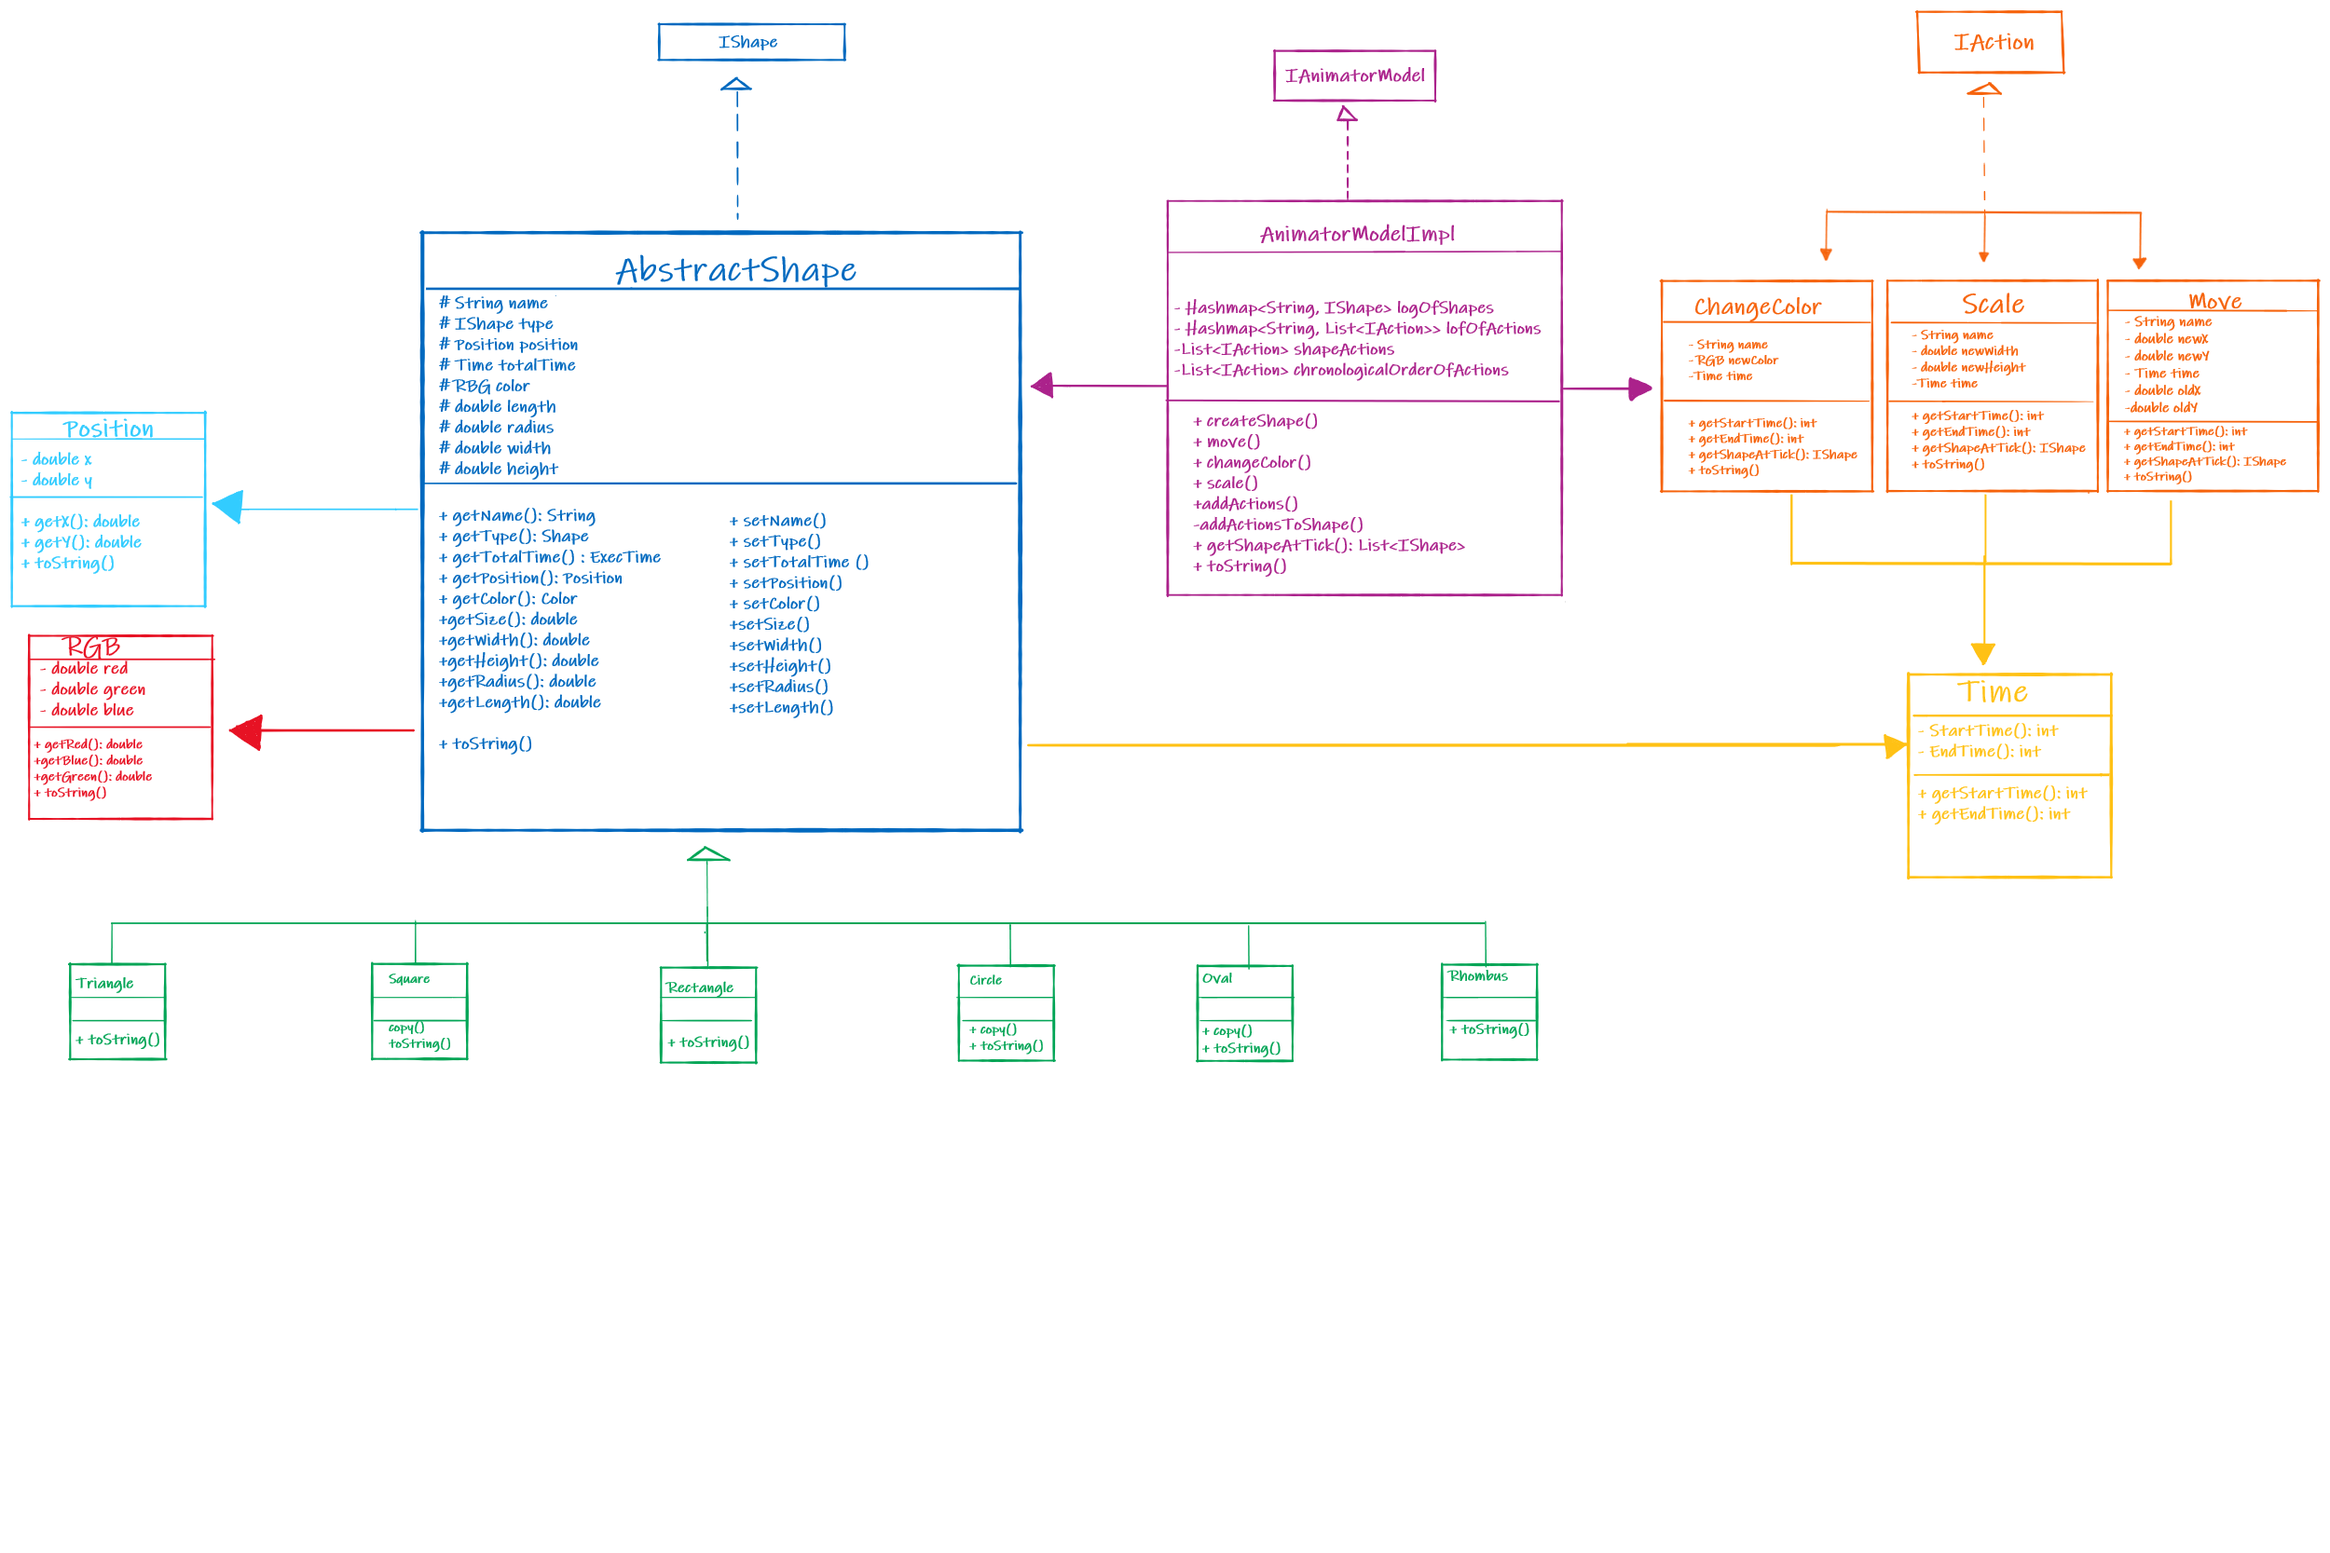
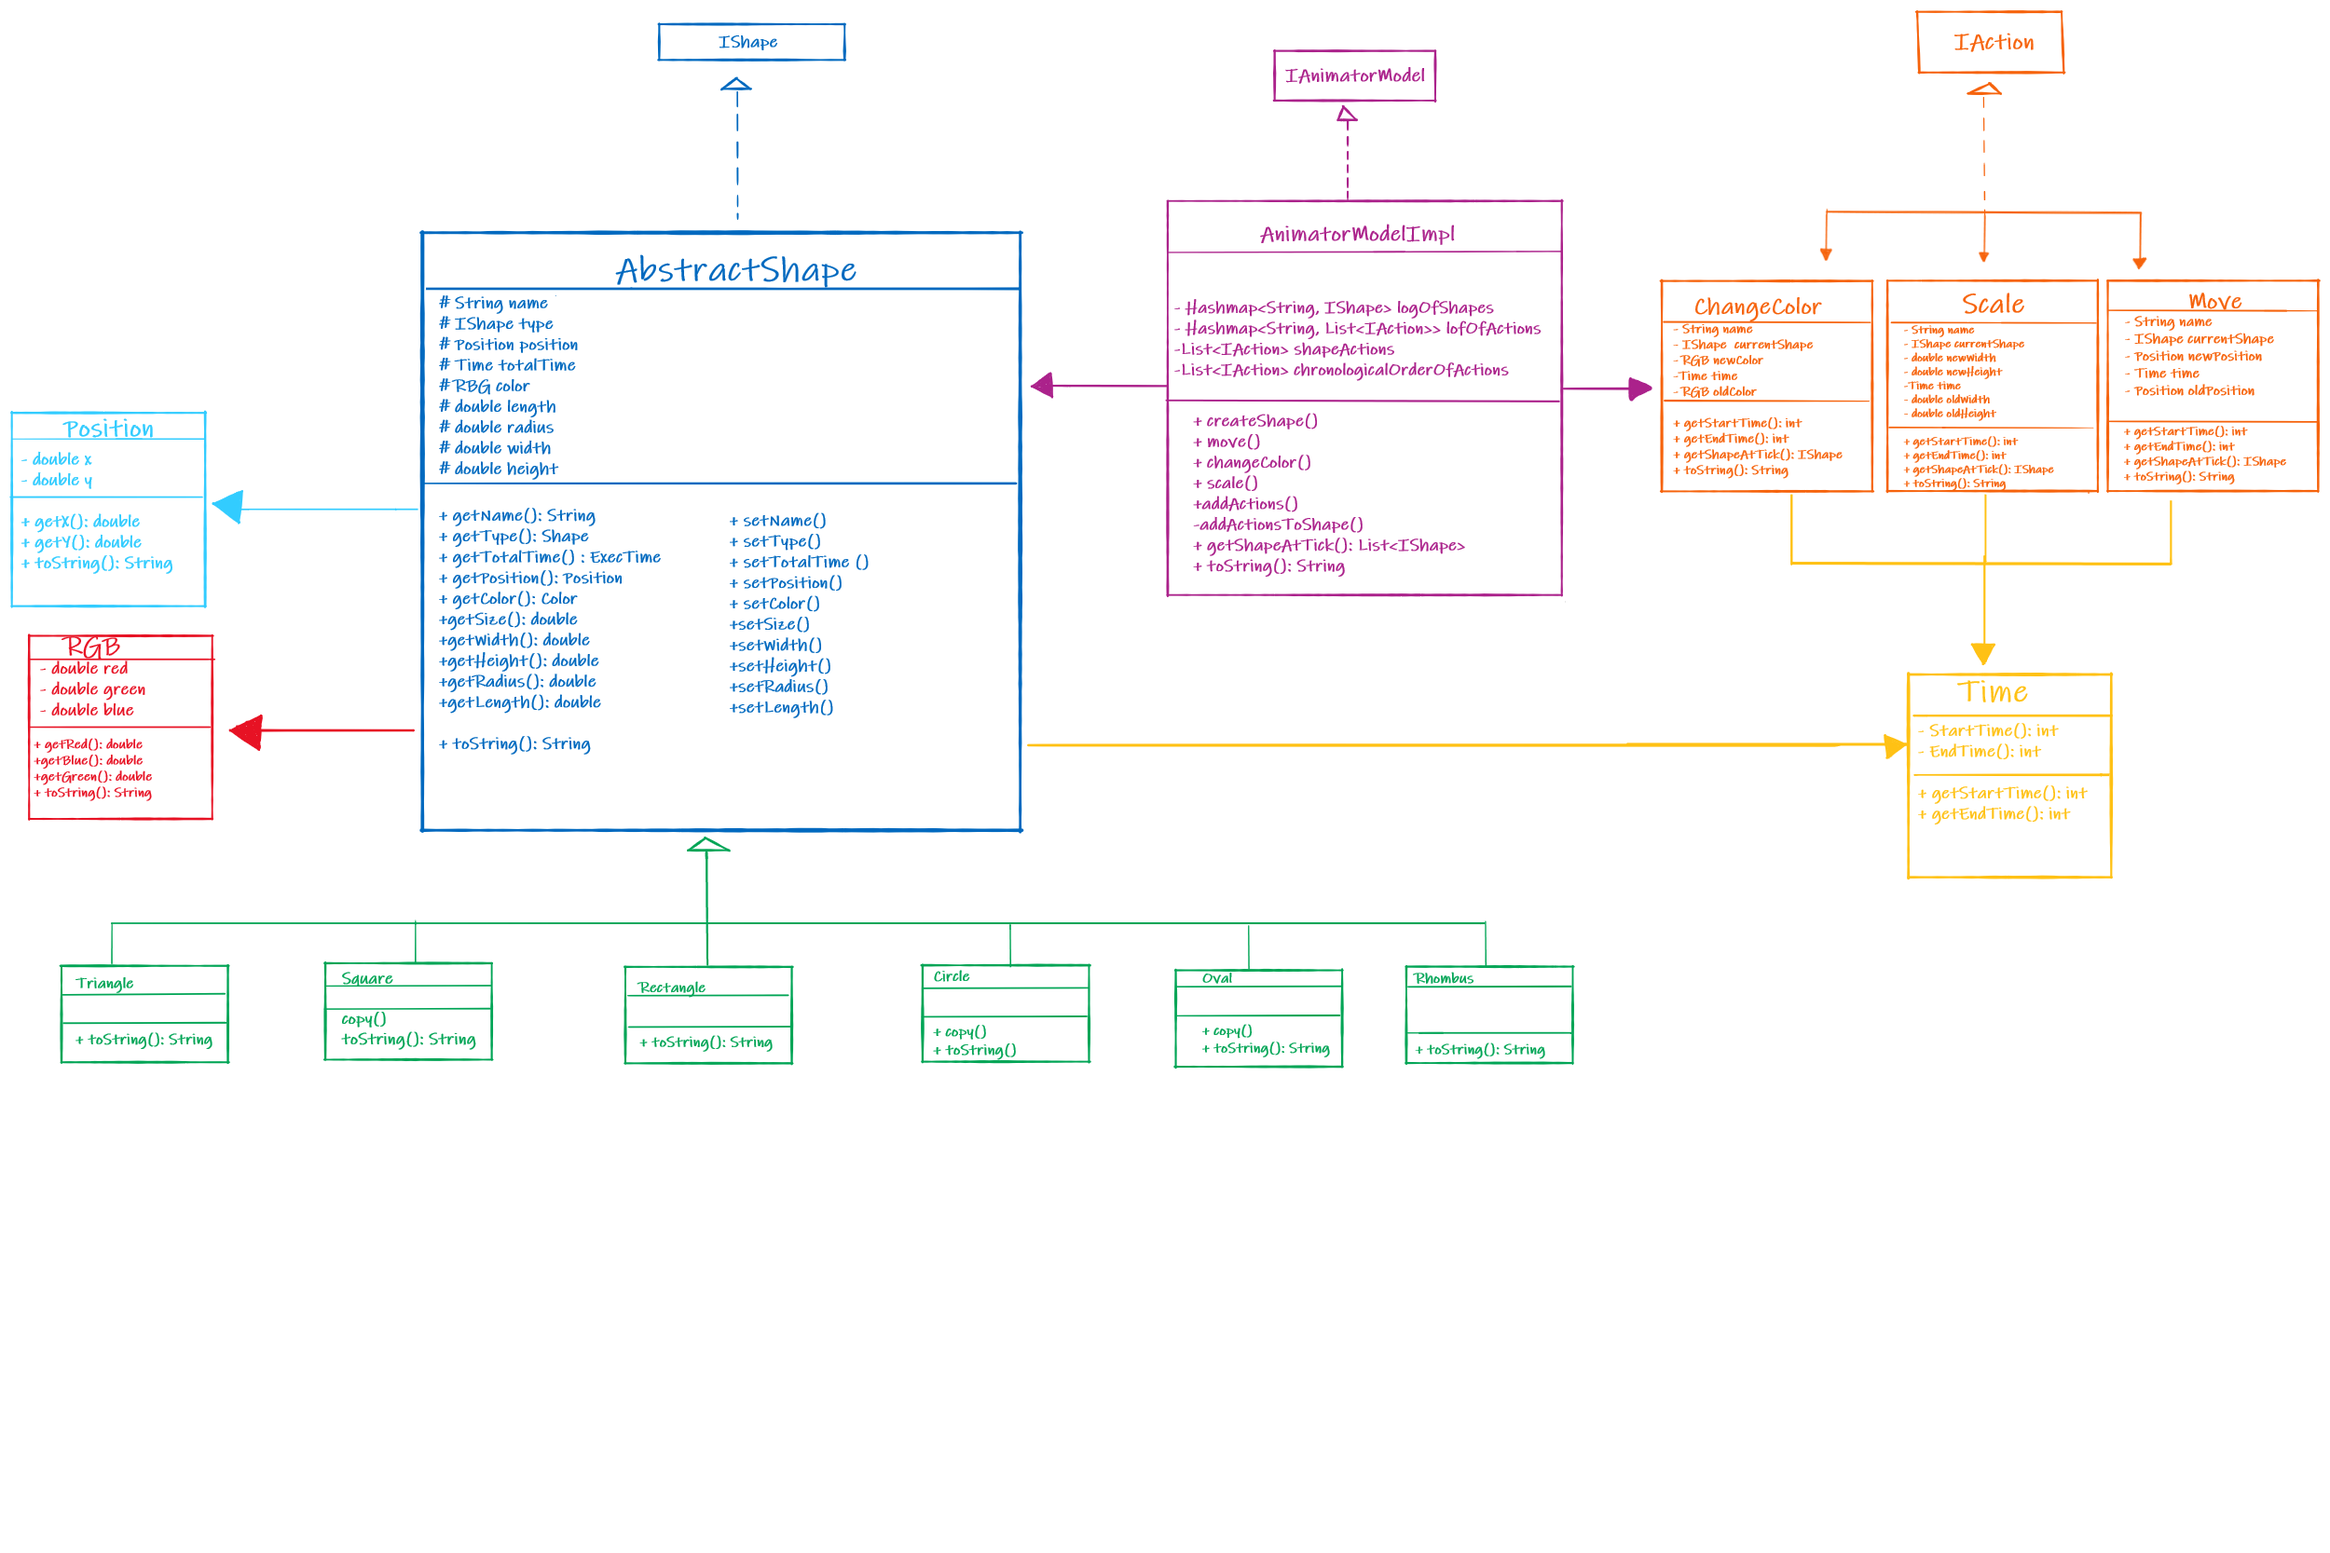
Houston , we have no problems

diff --git a/src/cs5004/animator/AnimatorModelImpl.java b/src/cs5004/animator/AnimatorModelImpl.java
@@ -18,14 +18,12 @@ import cs5004.shape.Triangle;
 public class AnimatorModelImpl implements IAnimatorModel {
   private HashMap<String, IShape> logOfShapes;
   private HashMap<String, List<IAction>> logOfActions;
-  private List<IAction> shapeActions;
   // chronological order of actions for toString method
-  private List<IAction> chronologicalOrderOfActions;
+  private List<String> chronologicalOrderOfActions;
 
   public AnimatorModelImpl() {
     this.logOfShapes = new HashMap<>();
     this.logOfActions = new HashMap<>();
-    this.shapeActions = new LinkedList<>();
     this.chronologicalOrderOfActions = new LinkedList<>();
   }
 
@@ -49,37 +47,38 @@ public class AnimatorModelImpl implements IAnimatorModel {
 
   @Override
   public void move(String name, double newX, double newY, int startTime, int endTime) {
-    IShape currentShape = logOfShapes.get(name);
+    IShape currentShape = getCurrentShape(name);
     if (currentShape == null) {
       throw new IllegalStateException("Shape with this name does not exist");
     }
     IAction newMove = new Move(name, currentShape, newX, newY, startTime, endTime);
     addActionToShape(name, newMove);
-    chronologicalOrderOfActions.add(newMove);
+    chronologicalOrderOfActions.add(newMove.toString());
   }
 
   @Override
   public void changeColor(String name, RGB newColor, int startTime, int endTime) {
-    IShape currentShape = logOfShapes.get(name);
+    IShape currentShape = getCurrentShape(name);
     if (currentShape == null) {
       throw new IllegalStateException("Shape with this name does not exist");
     }
     IAction newChangeColor = new ChangeColor(name, currentShape, newColor, startTime, endTime);
     addActionToShape(name, newChangeColor);
-    chronologicalOrderOfActions.add(newChangeColor);
+    chronologicalOrderOfActions.add(newChangeColor.toString());
   }
 
   @Override
   public void scale(String name, double newWidth, double newHeight, int startTime, int endTime) {
-    IShape currentShape = logOfShapes.get(name);
+    IShape currentShape = getCurrentShape(name);
     if (currentShape == null) {
       throw new IllegalStateException("Shape with this name does not exist");
     }
     IAction newScale = new Scale(name, currentShape, newWidth, newHeight, startTime, endTime);
     addActionToShape(name, newScale);
-    chronologicalOrderOfActions.add(newScale);
+    chronologicalOrderOfActions.add(newScale.toString());
   }
 
+  // NEEDS TO MODIFY
   // adds any action
   public void addActions(String name, IAction actions) {
     if (name == null) {
@@ -92,30 +91,47 @@ public class AnimatorModelImpl implements IAnimatorModel {
       throw new IllegalArgumentException("Actions cannot be null");
     }
     addActionToShape(name, actions);
-    chronologicalOrderOfActions.add(actions);
+    chronologicalOrderOfActions.add(actions.toString());
   }
 
   // create, move, change Color, scale
   private void addActionToShape(String name, IAction action) {
-    shapeActions.add(action);
-    logOfActions.put(name, shapeActions);
+    if (logOfActions.get(name) == null) {
+      logOfActions.put(name, new LinkedList<>());
+    }
+    logOfActions.get(name).add(action);
   }
 
   @Override
   public List<IShape> getShapesAtTicks(int tick) {
     List<IShape> frameOfShapes = new LinkedList<>();
-
     for (Map.Entry<String, IShape> objects : logOfShapes.entrySet()) {
       IShape accumulatorShape = objects.getValue().copy();
 
-      for (IAction actions : logOfActions.get(objects.getKey())) {
-        accumulatorShape = actions.getShapeAtTick(tick, accumulatorShape);
+      if (logOfActions.size() > 0 && logOfActions.get(objects.getKey()) != null) {
+        for (IAction actions : logOfActions.get(objects.getKey())) {
+          accumulatorShape = actions.getShapeAtTick(tick, accumulatorShape);
+        }
       }
-
       frameOfShapes.add(accumulatorShape);
     }
-
     return frameOfShapes;
+  }
+
+  private IShape getCurrentShape(String name) {
+    for (Map.Entry<String, IShape> objects : logOfShapes.entrySet()) {
+      if (objects.getKey().equals(name)) {
+        IShape accumulatorShape = objects.getValue().copy();
+
+        if (logOfActions.size() > 0 && logOfActions.get(objects.getKey()) != null) {
+          for (IAction actions : logOfActions.get(objects.getKey())) {
+            accumulatorShape = actions.getCurrentShape();
+          }
+        }
+        return accumulatorShape;
+      }
+    }
+    return null;
   }
 
   @Override
@@ -125,12 +141,12 @@ public class AnimatorModelImpl implements IAnimatorModel {
 
     StringBuilder accString = new StringBuilder();
     accString.append("Shapes:\n");
-    for (Map.Entry shape: logOfShapes.entrySet()) {
+    for (Map.Entry shape : logOfShapes.entrySet()) {
       accString.append(shape.getValue().toString());
       accString.append("\n\n");
     }
-    for (IAction action : chronologicalOrderOfActions) {
-      accString.append("Shape " + action.toString());
+    for (String action : chronologicalOrderOfActions) {
+      accString.append("Shape " + action);
       accString.append("\n");
     }
     return accString.toString();

diff --git a/test/IShapeTest.java b/test/IShapeTest.java
@@ -363,7 +363,7 @@ public class IShapeTest {
     assertEquals("""
         Name: C
         Type: Oval
-        Min corner: (500.0,100.0), X radius: 60.0, Y radius: 30.0, Color: (0.0,0.0,1.0)
+        Center: (500.0,100.0), X radius: 60.0, Y radius: 30.0, Color: (0.0,0.0,1.0)
         Appears at t=6
         Disappears at t=100""", oval.toString());
   }
@@ -376,11 +376,15 @@ public class IShapeTest {
     Model1.createShape("C", Shape.OVAL, new RGB(0,0,1), 60,
         30, 500, 100, 6, 100);
     Model1.move("R", 300, 300, 10, 50);
+    System.out.printf("Testing getShapesAtTicks");
+    System.out.println(Model1.getShapesAtTicks(11));
     Model1.move("C", 500, 400, 20, 70);
     Model1.changeColor("C", new RGB(0,1,0),50, 80);
     Model1.scale("R", 25, 100, 51, 70);
     Model1.move("R",200,200,70,100);
+    Model1.move("C",0,0,70,100);
 
+    System.out.println("Testing toString");
     System.out.println(Model1.toString());
 
     //String name, RGB newColor, int startTime, int endTime)

diff --git a/src/cs5004/animator/Move.java b/src/cs5004/animator/Move.java
@@ -29,6 +29,11 @@ public class Move implements IAction {
     this.time = new Time(startTime, endTime);
     this.oldPosition = new Position(currentShape.getPosition().getX(),
             currentShape.getPosition().getY());
+    this.currentShape.setPosition(newPosition.getX(), newPosition.getY());
+  }
+
+  public IShape getCurrentShape() {
+    return currentShape;
   }
 
   public IShape getShapeAtTick(int tick, IShape shape) {
@@ -55,7 +60,6 @@ public class Move implements IAction {
               + oldPosition.getY();
 
       copy.setPosition(currentX, currentY);
-
       return copy;
     }
   }

diff --git a/src/cs5004/shape/Shape.java b/src/cs5004/shape/Shape.java
@@ -1,11 +1,11 @@
 package cs5004.shape;
 
-public enum Shape { CIRCLE("circle"),
-                    OVAL("oval"),
-                    RECTANGLE("rectangle"),
-                    RHOMBUS("rhombus"),
-                    SQUARE("square"),
-                    TRIANGLE("triangle");
+public enum Shape { CIRCLE("Circle"),
+                    OVAL("Oval"),
+                    RECTANGLE("Rectangle"),
+                    RHOMBUS("Rhombus"),
+                    SQUARE("Square"),
+                    TRIANGLE("Triangle");
 
   private final String desc;
 

diff --git a/src/cs5004/animator/ChangeColor.java b/src/cs5004/animator/ChangeColor.java
@@ -30,6 +30,11 @@ public class ChangeColor implements IAction {
     this.time = new Time(startTime, endTime);
     this.oldColor = new RGB(currentShape.getColor().getRed(), currentShape.getColor().getGreen(),
         currentShape.getColor().getBlue());
+    this.currentShape.setColor(newColor);
+  }
+
+  public IShape getCurrentShape() {
+    return currentShape;
   }
 
   @Override

diff --git a/src/cs5004/animator/Scale.java b/src/cs5004/animator/Scale.java
@@ -35,6 +35,12 @@ public class Scale implements IAction {
     this.newHeight = newHeight;
     this.newWidth = newWidth;
     this.time = new Time(startTime, endTime);
+    this.currentShape.setWidth(newWidth);
+    this.currentShape.setHeight(newHeight);
+  }
+
+  public IShape getCurrentShape() {
+    return currentShape;
   }
 
   @Override

diff --git a/src/cs5004/animator/IAction.java b/src/cs5004/animator/IAction.java
@@ -15,4 +15,5 @@ public interface IAction {
    */
   IShape getShapeAtTick(int tick, IShape accumulatorShape);
 
+  IShape getCurrentShape();
 }
